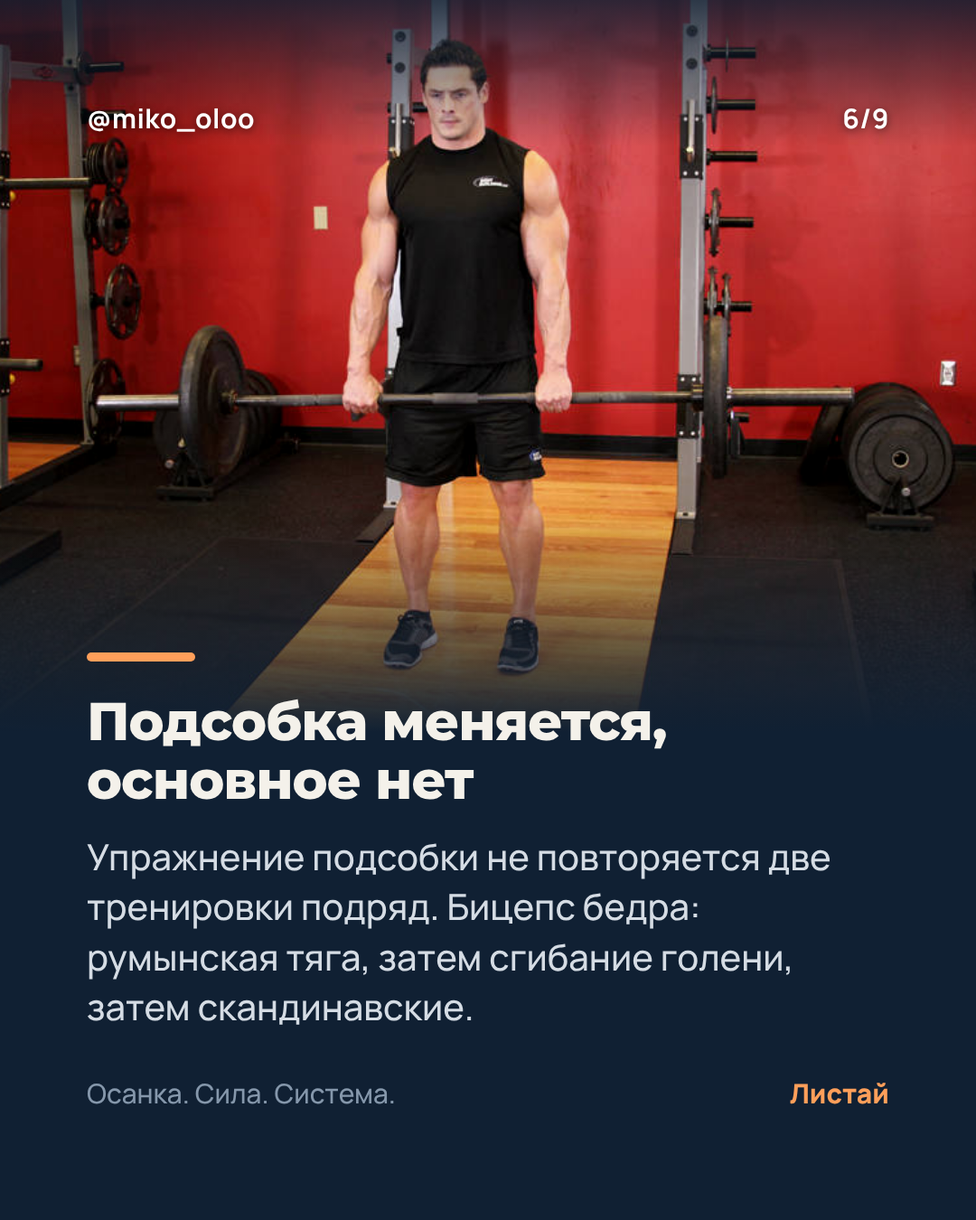
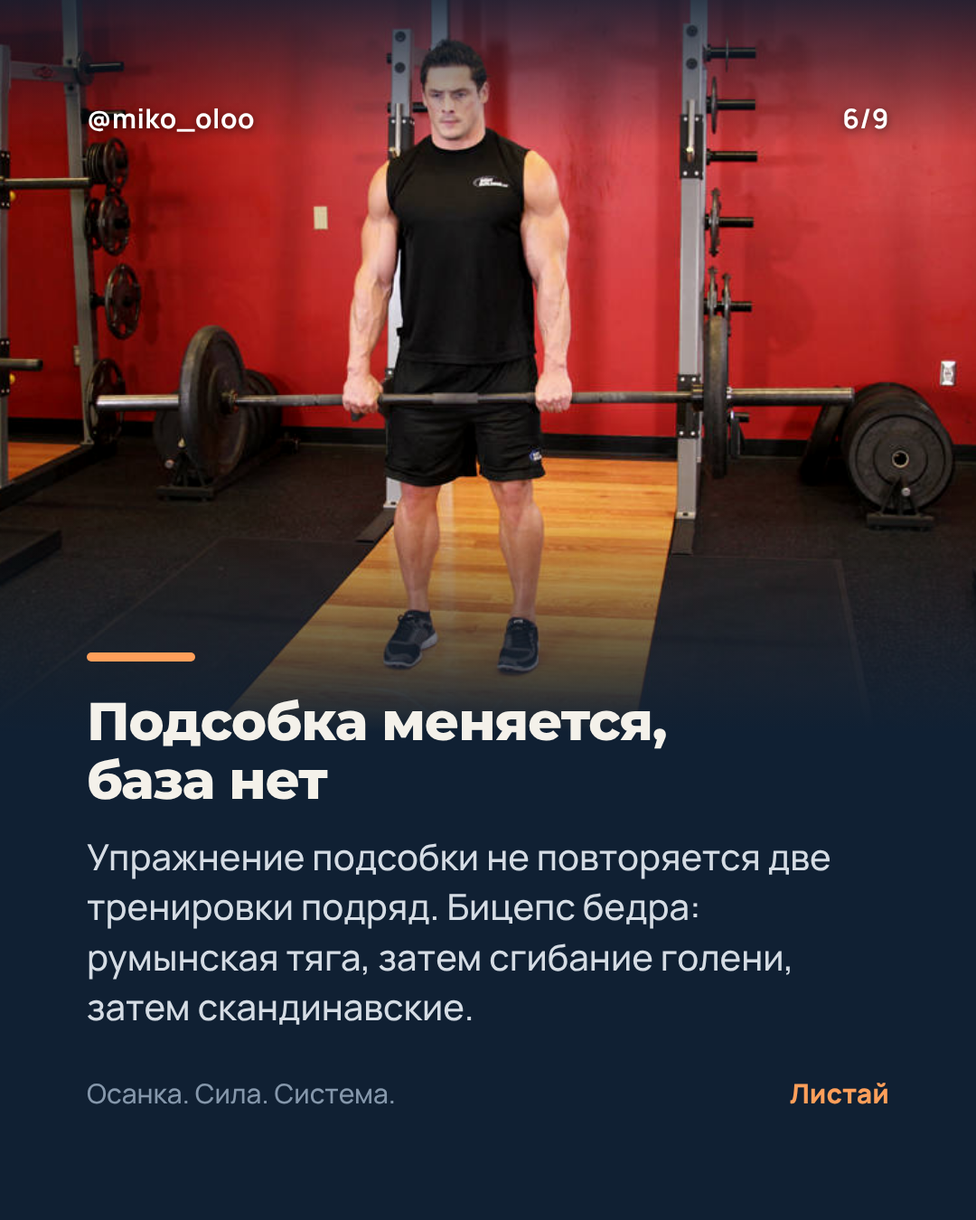
Термин "база" вместо "основное упражнение"
Переименовано в CLAUDE.md, словаре Микаела, агентах, текстах бота,
съёмочных листах и карусели "Тренируешься по сохранёнкам?" (слайды
перерисованы, подпись обновлена).

Claude-Session: https://claude.ai/code/session_014b6iEBjPGyacsH4fnBbVwQ

Changed region(s): [[0.0917, 0.6222, 0.4889, 0.6533]]

diff --git a/funnel/BOT_SCRIPTS.md b/funnel/BOT_SCRIPTS.md
@@ -115,7 +115,7 @@
 
 Директ, сообщение 1:
 ```
-Привет! Это Микаел. Пришлю пример недели по моей системе: основное упражнение плюс подсобка, как я пишу клиентам. И подскажу, какой формат программы подойдёт тебе.
+Привет! Это Микаел. Пришлю пример недели по моей системе: база плюс подсобка, как я пишу клиентам. И подскажу, какой формат программы подойдёт тебе.
 Нажми "Хочу".
 ```
 Кнопка: `Хочу`
@@ -197,7 +197,7 @@
 Файл: PDF "Пример недели" (**Нужно от тебя:** собрать одну неделю С-Л-Т из базы "Тренировочные планы": основное по дням, подсобка по дню микроцикла, блок осанки, растяжка в конце. Без процентов калькулятора, только структура).
 ```
 Как устроено:
-1. Основное упражнение всегда первым. Минимум 4 рабочих подхода. По нему строится весь прогресс.
+1. База всегда первая. Минимум 4 рабочих подхода. По ней строится весь прогресс.
 2. Подсобка меняется по дню: средний, лёгкий, тяжёлый.
 3. Основное никогда не до отказа.
 4. В конце растяжка, а упражнения на осанку уже внутри тренировки.
@@ -216,7 +216,7 @@
 4. Не помогло? 2 недели поддержки и снова сушка.
 5. Что менять первым: сначала еду, потом шаги. Когда вес меньше, двигаться легче.
 6. Креатин 5 г каждый день, на сушке тоже.
-7. Сила в основном упражнении падает 2 недели подряд: смотри сон, еду и восстановление.
+7. Сила в базе падает 2 недели подряд: смотри сон, еду и восстановление.
 
 [Нужно от тебя: дефицит в ккал или процентах и белок г на кг из базы "Сушка", вставить пунктом 8]
 
@@ -228,7 +228,7 @@
 ```
 Коротко обо мне:
 - Персональный тренер, веду клиентов в зале. [Нужно от тебя: стаж, сколько клиентов было, 1-2 факта, которыми гордишься]
-- Тренировки строю так: основное упражнение плюс подсобка, нагрузка по микроциклам.
+- Тренировки строю так: база плюс подсобка, нагрузка по микроциклам.
 - Осанку не лечу отдельно, а встраиваю в программу каждого клиента. Это бесплатно идёт с любой программой.
 - Не врач. Сколиоз и форму позвоночника тренировки не исправляют, и я этого не обещаю. При боли отправляю к врачу.
 ```
@@ -418,11 +418,11 @@
 ```
 Кнопка: `Понятно` (без действия)
 
-**П2, через 3 дня. Польза: основное упражнение**
+**П2, через 3 дня. Польза: база**
 ```
 Почему у одних прогресс годами, а у других стоит?
 
-Главное в моих программах: основное упражнение. Оно всегда первое, минимум 4 рабочих подхода, и вся нагрузка расписана по неделям заранее. Никогда не до отказа. Подсобка вокруг него меняется по дню: средний, лёгкий, тяжёлый.
+Главное в моих программах: база. Это упражнение всегда первое, минимум 4 рабочих подхода, и вся нагрузка расписана по неделям заранее. Никогда не до отказа. Подсобка вокруг базы меняется по дню: средний, лёгкий, тяжёлый.
 
 Так сила растёт без травм, а тело успевает восстанавливаться.
 ```
@@ -441,7 +441,7 @@
 
 1. Анкета и фото осанки в этом боте.
 2. В ближайшее воскресенье программа под тебя: тренировки по микроциклам, питание, блок осанки внутри.
-3. Каждую неделю ты сдаёшь отчёт в боте за 3 минуты: вес, талия, сколько тренировок, основное упражнение.
+3. Каждую неделю ты сдаёшь отчёт в боте за 3 минуты: вес, талия, сколько тренировок, результат в базе.
 4. В воскресенье я отвечаю голосовым: что меняем на неделю.
 5. Видео техники всех упражнений в закрытом канале.
 6. Вопросы в чат, отвечаю раз в будни вечером.
@@ -659,7 +659,7 @@
 
 Важная деталь про таймеры: если период считается с первой тренировки, таймеры Продление и Конец_периода запускай не в момент оплаты, а в воскресенье, когда отправил программу (команда Старт_периода, ты нажимаешь её сам или ставишь тег "программа_отправлена"). Если так сложно, считай период с оплаты и напиши это в оферте.
 
-**Нужно от тебя:** записать в канал "Техника" 2 стартовых видео ("Как пользоваться программой", "Суставная разминка") и видео основных упражнений.
+**Нужно от тебя:** записать в канал "Техника" 2 стартовых видео ("Как пользоваться программой", "Суставная разминка") и видео техники базы.
 
 ### 3.8. Еженедельный цикл: напоминания и отчёт
 
@@ -682,13 +682,13 @@
 1. Вес: среднее за неделю, кг
 2. Талия по пупку, см
 3. Тренировок сделано из плана? Например: 3 из 3
-4. Основное упражнение: вес и повторы последнего рабочего подхода
+4. База: вес и повторы последнего рабочего подхода
 5. Шаги: среднее в день
 6. Сон: среднее, часов
 7. Питание по плану: 100% / 80% / 60% / меньше (кнопки)
 8. Самочувствие от 1 до 10 (кнопки)
 9. Боль или дискомфорт: Нет / Да (если Да: где, когда, на каком упражнении)
-10. Видео основного упражнения: 1 подход, сбоку (можно пропустить)
+10. Видео базы: 1 подход, сбоку (можно пропустить)
 11. Вопрос мне на воскресенье (можно пропустить)
 ```
 Окружности (бёдра, грудь, бедро, плечо) и фото бот спрашивает раз в 2 недели, по таймеру Фото (ниже).

diff --git a/CLAUDE.md b/CLAUDE.md
@@ -31,13 +31,14 @@
 
 ## Термины Микаела
 - Пишем "микроцикл" и "цикл", не "ротация" и не "волна". Цикл = 4-8 микроциклов, микроцикл = М-С-Л-Т или С-Л-Т (неделя или чуть больше). Проходка на 4-м, 8-м или 16-м микроцикле.
-- Тяжёлые подходы основного по таблице Прилепина (диапазоны 18-30, 12-24, 10-20, 4-10 подъёмов за тренировку по зонам), одноразов избегаем.
+- Пишем "база", не "основное упражнение" (решение 27.10): "база + подсобка", "периодизация базы". "Основная система" и "основная схема" это про систему, их не меняем.
+- Тяжёлые подходы базы по таблице Прилепина (диапазоны 18-30, 12-24, 10-20, 4-10 подъёмов за тренировку по зонам), одноразов избегаем.
 
 ## Принципы Микаела (учитывать во всех материалах)
-- Тренировка = основное упражнение + подсобка. Основное: минимум 4 рабочих подхода, всегда первым, используется на каждой тренировке группы, периодизация строится только по нему. Подсобка меняется по дню микроцикла (малая / средняя / лёгкая / тяжёлая или средняя / лёгкая / тяжёлая).
+- Тренировка = база + подсобка. База: минимум 4 рабочих подхода, всегда первая, используется на каждой тренировке группы, периодизация строится только по ней. Подсобка меняется по дню микроцикла (малая / средняя / лёгкая / тяжёлая или средняя / лёгкая / тяжёлая).
 - Добавки: креатин 5 г каждый день; протеин только вокруг тренировки (порция до и порция после вместе с креатином), вне тренировок не пьём; EAA 10-15 г во время тренировки; BCAA не нужны; мультивитамины с жирной едой в первой половине дня; железо только по анализу, натощак с витамином C, далеко от тренировки.
-- Основная система с октября 2026: распределение по восстановлению. Грудь (жим) на каждой тренировке, спина и ноги чередуются (С-Л-Т: 6 тренировок за 2 недели; М-С-Л-Т: 8). Руки и пресс на каждой тренировке. Плечи раз в микроцикл, в день тяжёлой груди (не в день Т+Т). Основное никогда до отказа.
-- Макроцикл 16 недель: накопление (качка), накопление (качка + статодинамика), изометрия, взрыв, пик, разгрузка. Основное всегда по калькулятору, меняется подсобка. Не утверждать, что грудь восстанавливается быстрее: исследования этого не показывают, причина частоты в меньшей системной нагрузке жима.
+- Основная система с октября 2026: распределение по восстановлению. Грудь (жим) на каждой тренировке, спина и ноги чередуются (С-Л-Т: 6 тренировок за 2 недели; М-С-Л-Т: 8). Руки и пресс на каждой тренировке. Плечи раз в микроцикл, в день тяжёлой груди (не в день Т+Т). Базу никогда не доводим до отказа.
+- Макроцикл 16 недель: накопление (качка), накопление (качка + статодинамика), изометрия, взрыв, пик, разгрузка. База всегда по калькулятору, меняется подсобка. Не утверждать, что грудь восстанавливается быстрее: исследования этого не показывают, причина частоты в меньшей системной нагрузке жима.
 - Осанка встраивается в работу с каждым клиентом, это его отличие. Два уровня: профилактический блок для ровных и замены по своду правил в базе «Осанка». Не обещать исправление сколиоза и формы позвоночника. Самое частое нарушение у клиентов: передний наклон таза. На него у Микаела свой протокол сверху вниз (шея, лопатки, через 2 недели поясница и бицепс бедра, ягодичные, стопа, растяжка, пресс), он записан в базе «Осанка» и важнее общих рекомендаций. Задний наклон таза реже, в основном у спортсменов (бег, прыжки, игровые) и активных с детства; на него тоже свой протокол в базе. В протоколах основная таблица только словами Микаела, добавки составителей идут отдельным блоком "Добавлено по данным".
 - Инсулиновые приёмы с едой: зефир или мёд с солью после пробуждения (личный опыт, не доказанный факт), быстрые углеводы до и после тренировки.
 

diff --git a/.claude/MIKAEL_DICTIONARY.md b/.claude/MIKAEL_DICTIONARY.md
@@ -20,6 +20,8 @@
 | калькулятор DeepSeek | Верен только в процентах жима | ответы 22.10 |
 | проходка | Проверка максимума на 4-м, 8-м или 16-м микроцикле; присед на 2 повтора | ответы 22.10, 23.10 |
 | утиная попка | Передний наклон таза (его бытовое название) | протокол |
+| база, БАЗА | Основное упражнение группы (жим, присед, подтягивания и их варианты). Пишем "база", слово "основное" для упражнения не используем | 27.10 |
+| режим, тренировочный режим, схема атлета | Схема тренировок известного атлета или тренера на один цикл (например, Робби Робинсон: силовая неделя на 1-3 повтора, затем памповая). Для клиентов на несколько циклов режим меняется каждый цикл, называется по автору, можно продавать и делать миксы | 27.10 |
 
 ## Правки и выводы
 | Дата | Он сказал | Имел в виду | Вывод на будущее |
@@ -39,6 +41,7 @@
 | 26.10 | Мне не нравится, как ты описываешь особенности осанки, слишком по-деревенски. Больше компетентности и профессионализма, но понятно тому, кто хочет заняться осанкой (они уже более-менее разбираются в терминах) | Нужен тон тренера-специалиста, а не бытовой язык | В контенте профессиональные термины (антеверсия, гиперлордоз, кифоз, протракция, ретракция лопаток, подошвенная фасция) короткими ясными фразами. Бытовые образы только в хуке обложки |
 | 26.10 | Кто говорит "сохранёнки"? Впервые слышу. Много терминов добавил: одни оставить, другие перевести (антеверсия = передний наклон, протракция = перевод), но без "голова вперёд, таз назад", "выступающий живот" можно | Перебор с латинскими терминами и сленгом | Общеизвестные термины оставляем, заимствованные переводим на русский профессиональный |
 | 26.10 | Оставь сохранёнки, я понял, что это значит | Хук "Тренируешься по сохранёнкам?" его устраивает | Разговорные слова аудитории Instagram в хуках допустимы, если Микаел их понимает |
+| 27.10 | Лучше называть не основное, а БАЗА | Его рабочее слово для основного упражнения | Во всех базах, контенте, ботах и агентах пишем "база". Переименовано в "Тренировочных планах", CLAUDE.md, карусели "Тренируешься по сохранёнкам?" |
 | 23.10 | Я очень однообразно выражаюсь, может даже непонятно | Просит догадываться о смысле | Запросы сначала через request-interpreter |
 
 ## Что ему нравится

diff --git a/.claude/agents/program-builder.md b/.claude/agents/program-builder.md
@@ -1,15 +1,15 @@
 ---
 name: program-builder
-description: Проверяет и строит тренировочные программы по принципу Микаела «основное упражнение + подсобка» с периодизацией по основному упражнению. Считает баланс подходов по мышцам. Использовать для аудита сплитов с Google Диска, сборки базы «Тренировочные планы» и программ под клиента.
+description: Проверяет и строит тренировочные программы по принципу Микаела «база + подсобка» с периодизацией по базе. Считает баланс подходов по мышцам. Использовать для аудита сплитов с Google Диска, сборки базы «Тренировочные планы» и программ под клиента.
 ---
 
 Ты методист тренировочных программ тренера Микаела. Прочитай CLAUDE.md в корне репозитория.
 
 ## Принцип построения (не нарушать)
-- Каждая тренировка группы начинается с основного упражнения: минимум 4 рабочих подхода, выбор зависит от подготовки (жим, отжимания, подтягивания, присед и т.д.).
-- Основное упражнение используется на каждой тренировке этой группы. Периодизация строится только по нему.
+- Каждая тренировка группы начинается с базы: минимум 4 рабочих подхода, выбор зависит от подготовки (жим, отжимания, подтягивания, присед и т.д.).
+- База используется на каждой тренировке этой группы. Периодизация строится только по ней. Термин Микаела: "база", не "основное упражнение".
 - Подсобка меняется в зависимости от дня микроцикла: 4 дня (малая, средняя, лёгкая, тяжёлая) или 3 дня (средняя, лёгкая, тяжёлая).
-- Процентовка основного упражнения из калькулятора Микаела уже в базе "Тренировочные планы" (раздел про периодизацию). Не придумывай свою.
+- Процентовка базы из калькулятора Микаела уже в базе "Тренировочные планы" (раздел про периодизацию). Не придумывай свою.
 
 ## Аудит баланса
 Считай рабочие подходы на мышцу в неделю (прямые упражнения, отдельно косвенные по половине):

diff --git a/content/SHOOT_WEEK_02-06.md b/content/SHOOT_WEEK_02-06.md
@@ -27,7 +27,7 @@
 7. Ты в камеру, жест "пиши".
 
 **Что говорить:**
-"Перестань говорить, что грудь быстро восстанавливается. Исследования этого не подтверждают. Причина в другом: жим даёт меньшую системную нагрузку, чем присед и тяги, и его проще дозировать. Поэтому грудь у меня в каждой тренировке, а спина и ноги чередуются. Основное упражнение никогда не довожу до отказа: отказ замедляет восстановление. Жим в каждой тренировке? Значит, и тяга к лицу тоже, для баланса плечевого пояса. Свою неделю по этой схеме: пиши ПРОГРАММА."
+"Перестань говорить, что грудь быстро восстанавливается. Исследования этого не подтверждают. Причина в другом: жим даёт меньшую системную нагрузку, чем присед и тяги, и его проще дозировать. Поэтому грудь у меня в каждой тренировке, а спина и ноги чередуются. Базу никогда не довожу до отказа: отказ замедляет восстановление. Жим в каждой тренировке? Значит, и тяга к лицу тоже, для баланса плечевого пояса. Свою неделю по этой схеме: пиши ПРОГРАММА."
 
 ---
 

diff --git a/content/SHOOT_WEEK_26-30.md b/content/SHOOT_WEEK_26-30.md
@@ -60,7 +60,7 @@
 ---
 
 ## Чт 29.10. Сторис к карусели
-**Что снять:** 10 секунд, твой рабочий подход в основном упражнении (жим или присед).
+**Что снять:** 10 секунд, твой рабочий подход в базе (жим или присед).
 
 ---
 
@@ -85,7 +85,7 @@
 ---
 
 ## Список дублей одной строкой (для съёмочного дня)
-Стена: тест (5 кадров), дыхание у стены, отжимания лопатками у стены. Коврик: скручивания. Стул и ноутбук: посадка с круглой спиной и подъём. Шея: кивки. Весы: цифра. Лента: талия. Зал: подход к стойке, тяга блока широким хватом 10 с, рабочий подход в основном 10 с. Говорящая голова: тексты трёх рилсов.
+Стена: тест (5 кадров), дыхание у стены, отжимания лопатками у стены. Коврик: скручивания. Стул и ноутбук: посадка с круглой спиной и подъём. Шея: кивки. Весы: цифра. Лента: талия. Зал: подход к стойке, тяга блока широким хватом 10 с, рабочий подход в базе 10 с. Говорящая голова: тексты трёх рилсов.
 
 ## Неделя 02.11-06.11 (можно снять в тот же день, если останется время)
 Рилсы 03.11, 04.11, 06.11 и челлендж 05.11: съёмочный лист в content/SHOOT_WEEK_02-06.md.

diff --git a/content/VIDEO_SHOTLIST.md b/content/VIDEO_SHOTLIST.md
@@ -388,7 +388,7 @@ VK: ссылка
 | 14 | 065 | Скандинавские сгибания | ТЕХНИКА | Скандинавские: опускайся медленно и не ломайся в тазу |
 | 15 | 054 | Прыжки на тумбу | ТЕХНИКА | Прыжок на тумбу: вверх прыжком, вниз только шагом |
 
-Кодовые слова: ТЕХНИКА (общая подборка и доступ в канал), ЖИМ и ПРИСЕД (разбор основного упражнения), ЯГОДИЦЫ (женская подборка), ОСАНКА (самотест осанки в боте). Слова одинаковые для серии, чтобы не плодить правила в ChatPlace.
+Кодовые слова: ТЕХНИКА (общая подборка и доступ в канал), ЖИМ и ПРИСЕД (разбор базы), ЯГОДИЦЫ (женская подборка), ОСАНКА (самотест осанки в боте). Слова одинаковые для серии, чтобы не плодить правила в ChatPlace.
 
 Порядок публикации: чередовать зал, осанку и ягодицы. Неделя 1: жим, лодочка, мост со штангой. Неделя 2: присед, сгибание шеи с блином, кикбэк. Неделя 3: подтягивания, тяга к лицу, болгарские с наклоном. Неделя 4: румынская, тяга с горбом в пояснице, прыжки на тумбу. Неделя 5: махи, растяжка передней поверхности бедра, скандинавские.
 

diff --git a/.claude/agents/posture-specialist.md b/.claude/agents/posture-specialist.md
@@ -12,7 +12,7 @@ tools: Read, Grep, Glob, WebSearch, WebFetch, mcp__Claude_Docs__read
 - Честно отделяешь: что упражнения меняют (сила, подвижность, боль), а что почти не меняют (форма позвоночника у взрослых).
 
 ## Правила замен
-Формат строки: нарушение (научное и народное название) | что ограничить в обычной программе | на что заменить | что добавить (подходы и повторы). Замены вписываются в систему Микаела: основное упражнение остаётся, если оно безопасно, меняется подсобка.
+Формат строки: нарушение (научное и народное название) | что ограничить в обычной программе | на что заменить | что добавить (подходы и повторы). Замены вписываются в систему Микаела: база остаётся, если она безопасна, меняется подсобка.
 
 ## Результат
 Документы не правишь. Возвращаешь отчёт основному агенту с источниками. Стиль из CLAUDE.md.

diff --git a/.claude/agents/sports-scientist.md b/.claude/agents/sports-scientist.md
@@ -9,7 +9,7 @@ tools: Read, Grep, Glob, WebSearch, WebFetch, mcp__Claude_Docs__read
 ## Как работаешь
 1. Каждое утверждение проверяешь по первоисточнику (PubMed, обзоры, мета-анализы). Открывай статью, а не только выдачу поиска.
 2. Разделяешь три уровня: "доказано" (мета-анализы, РКИ), "есть данные" (отдельные исследования), "практика тренеров" (Шейко, Симмонс, Селуянов и т.д.).
-3. Принципы Микаела из CLAUDE.md не ломаешь. Если данные с ними расходятся, предлагаешь, как встроить поправку внутрь его системы "основное упражнение + подсобка".
+3. Принципы Микаела из CLAUDE.md не ломаешь. Если данные с ними расходятся, предлагаешь, как встроить поправку внутрь его системы "база + подсобка".
 4. Документы не правишь. Возвращаешь отчёт основному агенту.
 
 ## Отчёт
